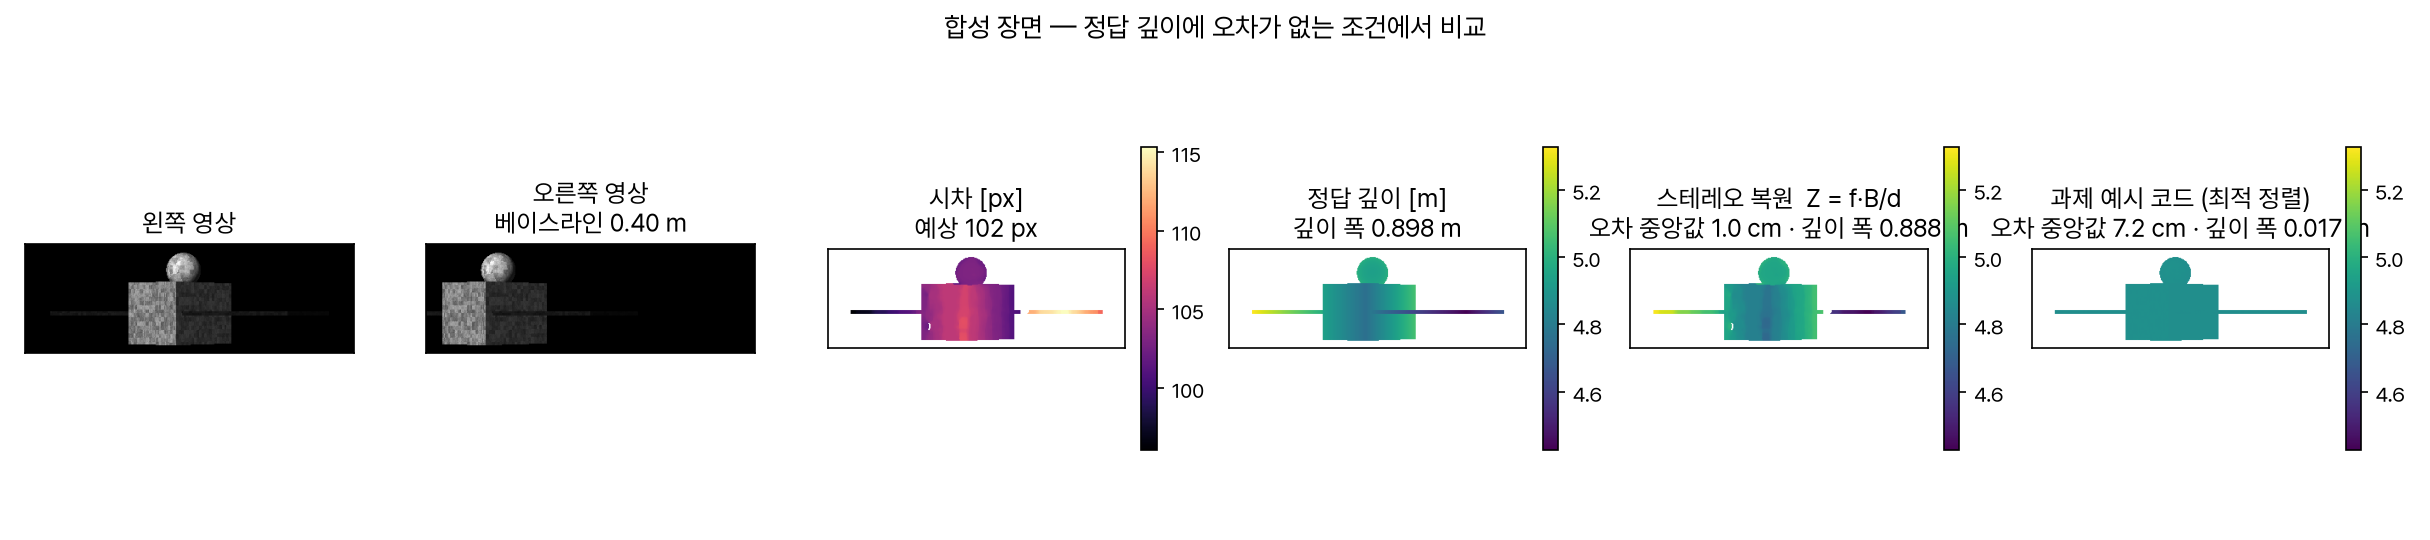
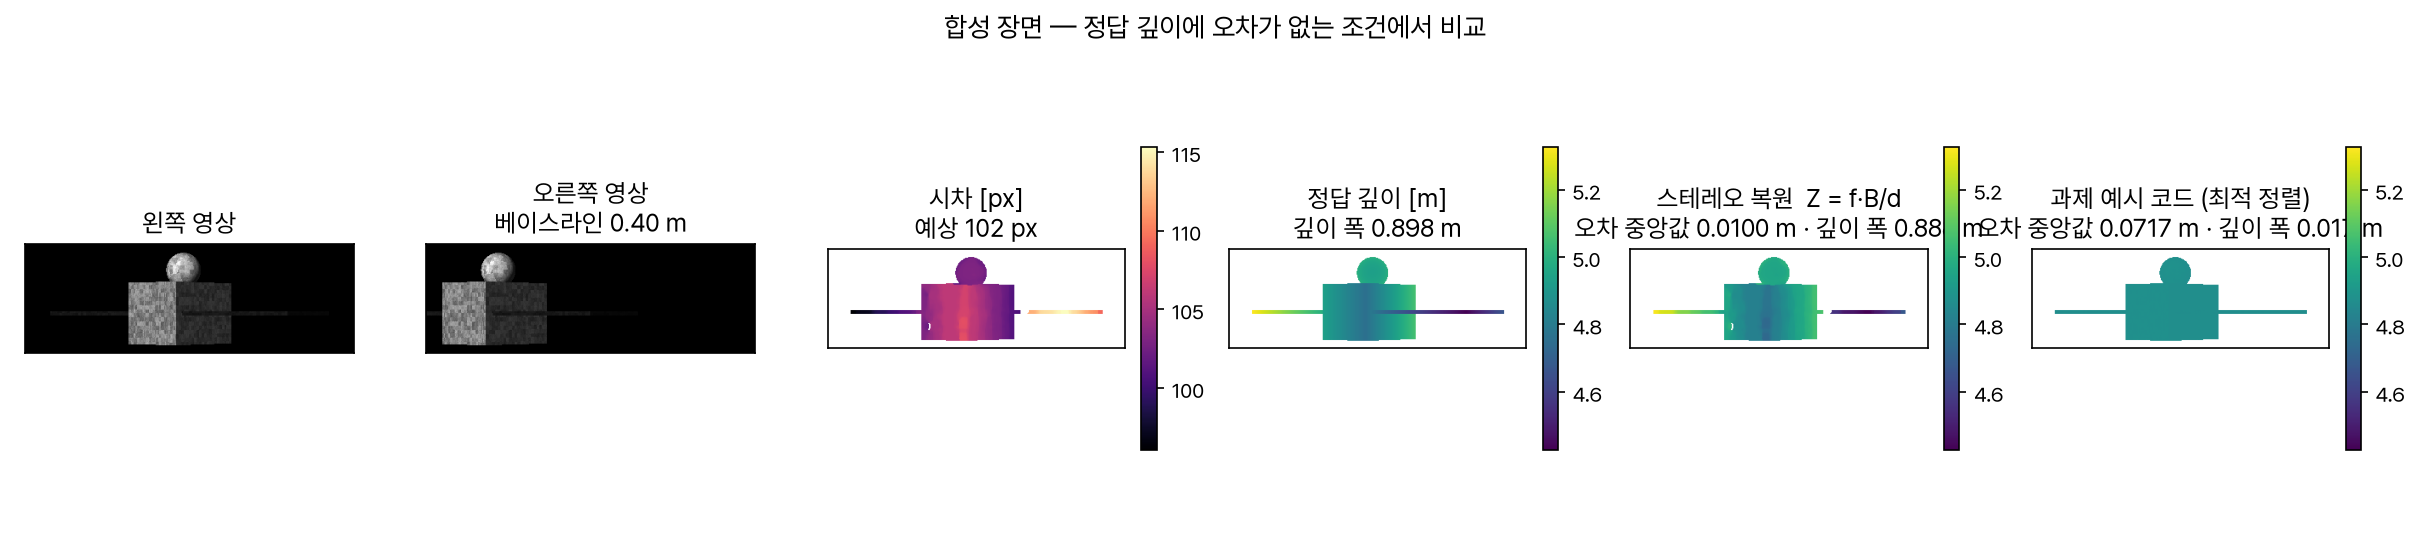
길이 단위를 전부 m 으로 맞추고, 2장 설명을 구체화하고, 대본에 기호 설명 추가
단위
    한 화면에 cm 와 m 이 섞여 있어 값을 비교할 때마다 100을 곱하고 나눠야
    했다. 베이스라인과 거리가 이미 m 이므로 오차 쪽을 m 으로 맞췄다.
      0.74 cm -> 0.0074 m,  6.8 cm/px -> 0.068 m/px,  5 cm 이내 -> 0.05 m 이내
    그림(개념도·쌍별 결과·깊이 맵 비교)의 축과 캡션도 함께 바꿨다. 산점도는
    축 이름만 [m] 로 바꾸면 값이 100배로 남으므로 데이터도 같이 고쳤다.

2장 설명
    "정답을 손으로 풀 수 있는 장면을 만들었다" 까지만 있어서 무엇을 확인했고
    무엇이 나왔는지가 없었다. 다섯 줄로 다시 썼다 - 왜 그렇게 짰는지, 무엇을
    어디까지 대조하는지, 통과 수(파일별 포함), 잡아낸 버그 4건, 되돌려 확인한
    절차. 파일별 통과 수는 test_counts() 로 리포트에서 읽는다.

대본
    맨 앞에 나오는 기호를 모아 뒀다. 식을 말로 옮기려면 f, B, d, Z 가 무엇인지
    입에 붙어 있어야 하는데 슬라이드에는 자리가 없다. 값도 함께 적어 발표 중에
    되짚을 수 있게 했다. 식은 설명 안에 넣지 않고 '쓰는 식' 으로 따로 뺐다 -
    줄바꿈이 식 한가운데를 자르면 읽는 사람이 다시 이어 붙여야 한다.

Claude-Session: https://claude.ai/code/session_018U3AzX4tcWGeaMbFnbomri

Changed region(s): [[0.6481, 0.3852, 0.9877, 0.4444]]

diff --git a/02_2d_to_3d/tools/build_report.py b/02_2d_to_3d/tools/build_report.py
@@ -95,6 +95,23 @@ def code_lines(name="test_relative_pose_maps_view_i_to_view_j"):
     return src[start:end]
 
 
+def test_counts() -> dict:
+    """pytest 실행 결과에서 파일별 통과 수를 센다.
+
+    슬라이드에 "기하 44 · 스테레오 27" 처럼 적으려면 이 값이 필요하다.
+    손으로 적어 두면 테스트를 늘렸을 때 조용히 어긋난다.
+    """
+    import re
+    from collections import Counter
+
+    path = os.path.join(OUT, "pytest_report.txt")
+    if not os.path.exists(path):
+        return {}
+    text = io.open(path, encoding="utf-8", errors="replace").read()
+    hits = re.findall(r"^(\S+?\.py)::\S+ PASSED", text, re.M)
+    return dict(Counter(f.split("/")[-1] for f in hits))
+
+
 def report_lines():
     """pytest 실행 결과에서 슬라이드에 들어갈 만큼만 뽑는다.
 
@@ -259,6 +276,7 @@ def add_image(slide, path, cx, cy, cw, ch, caption=None):
 
 
 TALK = []
+VARS = []
 
 
 def add_notes(slide, text):
@@ -339,6 +357,9 @@ def build(prs, s):
         전문 용어는 처음 나올 때 한 번만 풀어 준다. '정합' 대신 '같은 지점
         찾기', 'blockSize' 대신 '오려서 비교하는 네모의 크기' 로 쓴다.
 
+        길이는 전부 m 으로 적는다. 한 화면에 cm 와 m 이 섞이면 값을
+        비교할 때마다 100을 곱하고 나눠야 한다.
+
         다만 풀어 쓴 말이 다른 말과 겹치면 원래 용어를 쓴다. '시차' 를 '밀린
         거리' 로 바꿔 봤더니 재려는 대상인 깊이(거리)와 헷갈렸다. 지금은
         '시차 d' 를 쓰고 '옆으로 밀린 픽셀 수' 라고 한 번만 덧붙인다.
@@ -369,6 +390,21 @@ def build(prs, s):
     blk_new = next(x for x in blocks
                    if x["best_pair"]["valid_ratio"] == best["valid_ratio"])
     gap_ratio = bex["median_abs"] / best["median_abs"]
+
+    # 식은 설명 안에 넣지 않고 아래 '쓰는 식' 으로 뺀다. 줄바꿈이 식
+    # 한가운데를 자르면 읽는 사람이 다시 이어 붙여야 한다.
+    VARS[:] = [
+        ("R1, t1 / R2, t2", "사진 1·2 의 자세. R 은 회전, t 는 위치."),
+        ("", "데이터셋이 준 값이다."),
+        ("R, t", "두 사진 사이의 상대 자세. 우리가 계산한다."),
+        ("B", f"베이스라인 = t 중 화면과 나란한 성분. "
+              f"{best['baseline_m']:.3f} m."),
+        ("f", f"초점거리. {best['focal_px']:,.0f} 픽셀."),
+        ("d", "시차 = 같은 지점이 두 사진에서 옆으로 밀린 픽셀 수."),
+        ("", f"이 쌍에서 약 {best['expected_disparity_px']:.0f} 픽셀."),
+        ("Z", "깊이 = 그 화소가 보는 표면까지의 거리."),
+        ("u, v / cx, cy", "화소의 가로·세로 위치 / 화면 중심."),
+    ]
 
     # ---------------- 1. 방법 ----------------
     # 스테레오가 무엇인지는 설명하지 않는다. 이 장에서 남겨야 할 것은
@@ -408,11 +444,11 @@ def build(prs, s):
         (("베이스라인 B", f"{best['baseline_m']:.3f} m"), "body"),
         (("시차 d (기대)", f"{best['expected_disparity_px']:.1f} px"), "body"),
         (("d 1픽셀이 바꾸는 깊이",
-          f"{best['depth_resolution_m_per_px']*100:.1f} cm"), "body"),
+          f"{best['depth_resolution_m_per_px']:.3f} m"), "body"),
         # '거리 오차' 라고 부르지 않는다. Z 는 광축 방향 깊이이고, 카메라에서
         # 점까지의 실제 거리는 sqrt(X^2+Y^2+Z^2) 라 화면 가장자리에서 갈린다.
         # 우리가 재는 것은 Z 이므로 Z 라고 부르는 편이 짧고 정확하다.
-        (("→ Z 오차 (중앙값)", f"{best['median_abs']*100:.2f} cm"), "key"),
+        (("→ Z 오차 (중앙값)", f"{best['median_abs']:.4f} m"), "key"),
     ])
 
     add_notes(sl, f"""
@@ -420,8 +456,8 @@ def build(prs, s):
 · 대신 위성이 매 장면 돌아갑니다. 위성을 세워 놓고 보면 카메라가 그 주위를 돈 셈입니다.
 · 그래서 두 사진의 자세 차이에서 상대 자세 R, t 를 구했고, 그중 화면과 나란한 성분이 베이스라인입니다. 회전 {best['rotation_deg']:.1f}도짜리 쌍에서 {best['baseline_m']:.3f} m 가 나왔습니다.
 · 나머지는 교과서대로입니다. 평행하게 편 뒤 같은 지점이 몇 픽셀 밀렸는지 찾고, Z = f·B/d 로 나눕니다.
-· 여기서 시차 1픽셀이 {best['depth_resolution_m_per_px']*100:.1f} cm 입니다. 이보다 미세한 구조는 원리적으로 구분되지 않습니다.
-· 결과는 Z 오차 중앙값 {best['median_abs']*100:.2f} cm, 위성까지 {best['distance_m']:.1f} m 인데 그 0.13퍼센트입니다.
+· 여기서 시차 1픽셀이 {best['depth_resolution_m_per_px']:.3f} m 입니다. 이보다 미세한 구조는 원리적으로 구분되지 않습니다.
+· 결과는 Z 오차 중앙값 {best['median_abs']:.4f} m, 위성까지 {best['distance_m']:.1f} m 인데 그 0.13퍼센트입니다.
 """)
 
     # ---------------- 2. Unit Test ----------------
@@ -450,22 +486,29 @@ def build(prs, s):
     add_text(sl, 8.57, 2.58, 3.78, 2.20,
              [(x, MONO, 8.5, BODY) for x in report_lines()], spacing=1.2)
 
-    add_panel(sl, 0.72, 5.18, 11.89, 1.64, "왜 이렇게 짰나", [
-        t("공과 상자로 위성을 세우면 정답 거리를 식으로 구할 수 있습니다. "
-          "정답에 오차가 없으니, 틀린 만큼이 그대로 알고리즘의 오차입니다."),
-        t("그래서 '그림이 그럴듯한가' 가 아니라 '숫자가 맞는가' 로 확인합니다. "
-          f"정답 깊이 차이 {syn['gt_span_m']:.2f} m 를 저희는 {ss['span_m']:.2f} m 로 "
-          f"되살렸고, 과제 예시 코드는 {se['span_m']:.3f} m 로 납작해졌습니다."),
-        tk("이렇게까지 한 이유는, 이번에 찾은 버그 4건이 전부 테스트가 없던 "
-           "자리에서 나왔기 때문입니다. 고친 뒤에는 일부러 되돌려 그 테스트가 "
-           "진짜 실패하는지까지 확인했습니다."),
+    tcnt = test_counts()
+    geo = tcnt.get("test_3d_processing.py", 0)
+    ste = tcnt.get("test_stereo.py", 0)
+    add_panel(sl, 0.72, 5.18, 11.89, 1.64, "왜 이렇게 짰고, 무엇이 나왔나", [
+        t("크기와 자료형만 보면 식이 틀려도 통과합니다. 그래서 공과 상자로 "
+          "정답을 손으로 풀 수 있는 장면을 따로 만들었습니다."),
+        t("정답에 렌더링 오차가 0 이라, 틀린 만큼이 그대로 알고리즘의 "
+          "오차입니다. Z = f·B/d 와 자세 변환을 소수점 12자리까지 대조합니다."),
+        tk(f"결과 — {geo + ste}개 전부 통과(기하 {geo} · 스테레오 {ste}). 정답 깊이 "
+           f"차이 {syn['gt_span_m']:.2f} m 를 {ss['span_m']:.2f} m 로 되살렸고, "
+           f"과제 예시 코드는 {se['span_m']:.3f} m 로 납작해졌습니다."),
+        tk("이 테스트들이 버그 4건을 잡았습니다 — 세로 쌍 10/20 유실 · 기준 깊이 "
+           "90도 어긋남 · 정렬 창이 14/20 잘림 · 블록 크기 오선택."),
+        t("넷 다 예외가 나지 않아 조용히 틀리는 종류였고, 고친 뒤 일부러 되돌려 "
+          "그 테스트가 진짜 실패하는지까지 확인했습니다."),
     ])
     add_notes(sl, f"""
 · 과제 예시 테스트는 크기와 자료형만 봅니다. 그러면 계산식이 틀려도 통과합니다.
-· 그래서 공과 상자로 정답을 손으로 풀 수 있는 장면을 만들었습니다. 정답에 오차가 없으니 틀린 만큼이 그대로 알고리즘의 오차입니다.
-· 왼쪽이 실제 코드입니다. 1장에서 말한 "돌아간 각도가 두 번째 눈이 된다" 를 소수점 12자리까지 확인합니다.
-· 오른쪽이 실행 결과, {tc}개 전부 통과입니다. outputs 폴더에 그대로 저장돼 있습니다.
-· 이렇게까지 한 이유는, 이번에 찾은 버그 4건이 전부 테스트가 없던 자리에서 나왔기 때문입니다.
+· 그래서 공과 상자로 정답을 손으로 풀 수 있는 장면을 만들었습니다. 광선과 도형의 교차를 식으로 푸니 정답에 렌더링 오차가 0 이고, 틀린 만큼이 그대로 알고리즘의 오차가 됩니다.
+· 왼쪽이 실제 코드입니다. 1장에서 말한 "돌아간 각도가 두 번째 눈이 된다" 를 확인합니다. 위성 위의 점 200개를 두 장면 좌표로 각각 옮겨 놓고, 우리가 구한 R 과 t 로 한쪽을 다른 쪽에 겹쳐 소수점 12자리까지 맞는지 봅니다.
+· 오른쪽이 실행 결과입니다. {tc}개 전부 통과하고 outputs 폴더에 그대로 저장돼 있습니다.
+· 이렇게까지 한 이유는, 이번에 찾은 버그 4건이 전부 테스트가 없던 자리에서 나왔기 때문입니다. 세로로 찍힌 쌍이 통째로 버려지고, 기준 깊이가 90도 어긋나고, 정렬 창이 타겟을 자르고, 블록 크기를 가짜 영상으로 고른 것입니다.
+· 넷 다 예외가 나지 않아 조용히 틀리는 종류였습니다. 그래서 고친 뒤 일부러 되돌려 그 테스트가 진짜 실패하는지까지 확인했습니다.
 """)
 
     # ---------------- 3. 2D -> 3D 변환 결과 ----------------
@@ -479,8 +522,8 @@ def build(prs, s):
     add_card(sl, 0.72, 5.02, 4.30, 1.86)
     add_text(sl, 0.98, 5.21, 3.78, 0.24, [("결과", SANS_SB, 10.5, INK)])
     add_matrix(sl, 0.98, 5.60, [2.34, 1.44], [
-        (("Z 오차 (중앙값)", f"{best['median_abs']*100:.2f} cm"), "key"),
-        (("5 cm 안에 든 비율", f"{best['within_5cm']*100:.1f}%"), "key"),
+        (("Z 오차 (중앙값)", f"{best['median_abs']:.4f} m"), "key"),
+        (("0.05 m 안에 든 비율", f"{best['within_5cm']*100:.1f}%"), "key"),
         (("과제 예시 코드보다", f"{gap_ratio:.1f}배 정확"), "key"),
         (("겉면을 덮은 비율 · 2장", f"{cov_one['surface_coverage']*100:.1f}%"), "body"),
         ((f"겉면을 덮은 비율 · {cov_fuse['pairs_used']}쌍",
@@ -491,7 +534,7 @@ def build(prs, s):
     add_panel(sl, 5.26, 5.02, 7.35, 1.86,
               "깊이는 정확합니다 · 남은 문제는 덮는 범위입니다", [
         tk(f"Z 는 정확합니다 — 100번 중 {best['within_5cm']*100:.0f}번이 "
-           f"5 cm 안에 들어옵니다."),
+           f"0.05 m 안에 들어옵니다."),
         tk("뒷면은 원리적으로 안 보입니다 — 알고리즘이 부족해서가 아니라 "
            "한 방향에서는 가려지기 때문입니다."),
         tk(f"넓히면 정확도를 내줍니다 — {cov_fuse['pairs_used']}쌍을 합쳐 겉면 "
@@ -521,7 +564,7 @@ def build(prs, s):
     p025 = next(r for r in posesens if abs(r["degrees"] - 0.25) < 1e-9)
     items = [
         ("1", "자세가 조금만 틀려도 무너집니다",
-         f"자세에 0.25도 오차를 주면 5 cm 안에 드는 비율이 "
+         f"자세에 0.25도 오차를 주면 0.05 m 안에 드는 비율이 "
          f"{best['within_5cm']*100:.1f}% 에서 {p025['within_5cm']*100:.1f}% 로 "
          f"떨어집니다.",
          "→ 자세를 그대로 받지 말고, 영상의 대응점으로 상대 자세를 다시 맞춰야 "
@@ -541,7 +584,7 @@ def build(prs, s):
          "합니다."),
         ("4", "화면의 대부분이 빈 우주입니다",
          f"위성은 화면의 일부만 차지하는데 전체를 그대로 봅니다. 깊이 분해능이 "
-         f"{best['depth_resolution_m_per_px']*100:.1f} cm/픽셀에서 막힙니다.",
+         f"{best['depth_resolution_m_per_px']:.3f} m/픽셀에서 막힙니다.",
          "→ 위성이 있는 부분만 잘라 같은 계산량으로 더 조밀하게 봐야 합니다."),
     ]
 
@@ -558,7 +601,7 @@ def build(prs, s):
     add_notes(sl, f"""
 · 앞줄이 지금 잰 값이고 뒷줄이 할 일입니다.
 · 1번이 가장 큽니다. 지금은 위성 자세를 데이터셋이 준 정답으로 받아 쓰는데, 실제로는 그 자세도 추정해야 합니다.
-· 자세를 0.25도만 틀어도 무너지는 이유는 베이스라인이 짧아서입니다. 0.25도면 타겟이 2.5 cm 옮겨 앉는데, 베이스라인 {best['baseline_m']*100:.0f} cm 의 7퍼센트라 깊이가 통째로 그만큼 밀립니다.
+· 자세를 0.25도만 틀어도 무너지는 이유는 베이스라인이 짧아서입니다. 0.25도면 타겟이 0.025 m 옮겨 앉는데, 베이스라인 {best['baseline_m']:.3f} m 의 7퍼센트라 깊이가 통째로 그만큼 밀립니다.
 · 2번은 3장에서 {cov_fuse['pairs_used']}쌍을 합쳐도 {fuse0['surface_coverage']*100:.0f}퍼센트에서 멈춘 이유입니다. 조건에 맞는 사진을 전부 쓰다 보니 보는 방향이 한쪽에 몰립니다.
 · 3번은 지금 자신 없는 값을 그냥 버려서 "모른다" 와 "틀렸다" 가 구분되지 않는다는 것입니다.
 · 이 밖에 시차 찾는 범위 좁히기는 재 봤지만, 정확도를 내주는 쪽이라 쓰지 않고 값만 남겼습니다.
@@ -573,6 +616,16 @@ def talk_script(width=46):
               "04 / 개선점"]
     out = ["2차 업무 발표 대본 — 정승원",
            f"슬라이드 {TOTAL_PAGES}장 · 각 장에서 할 말", "=" * 50, ""]
+    if VARS:
+        out += ["[0] 나오는 기호", "-" * 50]
+        pad = max(len(k) for k, _ in VARS)
+        for key, desc in VARS:
+            wrapped = textwrap.wrap(desc, width + 14 - pad - 2)
+            out.append(f"{key:<{pad}}  {wrapped[0]}")
+            out += [" " * (pad + 2) + x for x in wrapped[1:]]
+        out += ["", "쓰는 식", "  R = R2 · R1^T,    t = t2 − R · t1",
+                "  Z = f · B / d",
+                "  X = (u−cx)·Z/f,    Y = (v−cy)·Z/f", ""]
     for i, note in enumerate(TALK):
         out += [f"[{i + 1}] {titles[i]}", "-" * 50]
         for line in note.splitlines():

diff --git a/02_2d_to_3d/figures.py b/02_2d_to_3d/figures.py
@@ -161,7 +161,7 @@ def figure_concept(best, path):
     a.text(0, 2.35, f"f = {best['focal_px']:.0f} px      B = {base:.3f} m",
            ha="center", fontsize=10.5, color="#555555")
     a.text(0, -3.15, f"시차 1픽셀이 깊이 "
-           f"{best['depth_resolution_m_per_px']*100:.1f} cm 에 해당", ha="center",
+           f"{best['depth_resolution_m_per_px']:.3f} m 에 해당", ha="center",
            fontsize=11, color="#7a7a7a")
 
     fig.tight_layout()
@@ -226,12 +226,12 @@ def figure_synthetic(art, res, path):
     fig.colorbar(g, ax=ax[3], fraction=0.046)
     s = ax[4].imshow(art["z_stereo"][cy, cx], cmap="viridis", vmin=lo, vmax=hi)
     ax[4].set_title(f"스테레오 복원  Z = f·B/d\n오차 중앙값 "
-                    f"{res['stereo']['median_abs']*100:.1f} cm · 깊이 폭 "
+                    f"{res['stereo']['median_abs']:.4f} m · 깊이 폭 "
                     f"{res['stereo']['span_m']:.3f} m")
     fig.colorbar(s, ax=ax[4], fraction=0.046)
     e = ax[5].imshow(art["z_bright"][cy, cx], cmap="viridis", vmin=lo, vmax=hi)
     ax[5].set_title(f"과제 예시 코드 (최적 정렬)\n오차 중앙값 "
-                    f"{res['example_code']['full']['median_abs']*100:.1f} cm · 깊이 폭 "
+                    f"{res['example_code']['full']['median_abs']:.4f} m · 깊이 폭 "
                     f"{res['example_code']['full']['span_m']:.3f} m")
     fig.colorbar(e, ax=ax[5], fraction=0.046)
 
@@ -295,21 +295,21 @@ def figure_survey(results, path):
     w5 = np.array([r["within_5cm"] * 100 for r in results])
 
     fig, ax = plt.subplots(1, 3, figsize=(12.6, 3.6))
-    sc = ax[0].scatter(base, med * 100, c=rot, cmap="viridis", s=60)
-    ax[0].set_xlabel("유효 베이스라인 [m]"); ax[0].set_ylabel("깊이 오차 중앙값 [cm]")
+    sc = ax[0].scatter(base, med, c=rot, cmap="viridis", s=60)
+    ax[0].set_xlabel("유효 베이스라인 [m]"); ax[0].set_ylabel("깊이 오차 중앙값 [m]")
     ax[0].set_title("베이스라인과 정확도"); ax[0].set_yscale("log")
     fig.colorbar(sc, ax=ax[0], label="회전각 [도]", fraction=0.046)
 
     ax[1].scatter(cov, w5, s=60, color="#2ca02c")
-    ax[1].set_xlabel("유효 화소 비율 [%]"); ax[1].set_ylabel("5 cm 이내 화소 [%]")
+    ax[1].set_xlabel("유효 화소 비율 [%]"); ax[1].set_ylabel("0.05 m 이내 화소 [%]")
     ax[1].set_title("복원 범위와 정확도")
 
     order = np.argsort(med)
-    ax[2].plot(np.arange(1, len(med) + 1), med[order] * 100, "o-", ms=8,
+    ax[2].plot(np.arange(1, len(med) + 1), med[order], "o-", ms=8,
                color="#9467bd")
-    ax[2].axhline(10, ls="--", c="#333", lw=1.2)
-    ax[2].text(len(med) * 0.55, 11, "10 cm 기준", fontsize=10, color="#333")
-    ax[2].set_xlabel("쌍 순위"); ax[2].set_ylabel("깊이 오차 중앙값 [cm]")
+    ax[2].axhline(0.10, ls="--", c="#333", lw=1.2)
+    ax[2].text(len(med) * 0.55, 0.11, "0.10 m 기준", fontsize=10, color="#333")
+    ax[2].set_xlabel("쌍 순위"); ax[2].set_ylabel("깊이 오차 중앙값 [m]")
     ax[2].set_title(f"정확도 순 정렬 ({len(results)}쌍)"); ax[2].set_yscale("log")
 
     fig.suptitle("SPE3R 뷰 쌍별 복원 결과", fontsize=13)
@@ -346,7 +346,7 @@ def figure_spe3r(best, example_depth, path):
     fig.colorbar(r, ax=ax[3], fraction=0.046)
     s = ax[4].imshow(dep[cy, cx], cmap="viridis", vmin=lo, vmax=hi)
     ax[4].set_title(f"스테레오 복원  Z = f·B/d\n오차 중앙값 "
-                    f"{best['median_abs']*100:.1f} cm · 5cm 이내 "
+                    f"{best['median_abs']:.4f} m · 0.05 m 이내 "
                     f"{best['within_5cm']*100:.0f}%")
     fig.colorbar(s, ax=ax[4], fraction=0.046)
     e = ax[5].imshow(np.where(m, example_depth[cy, cx], np.nan), cmap="viridis",
@@ -362,11 +362,11 @@ def figure_spe3r(best, example_depth, path):
     figure_depth_triptych(
         [("기준 깊이 [m]\n(동봉 메시 z-buffer)",
           np.where(sm, ref[sy, sx], np.nan), "viridis", lo, hi),
-         (f"스테레오  Z = f·B/d\n오차 중앙값 {best['median_abs']*100:.1f} cm · "
-          f"5cm 이내 {best['within_5cm']*100:.0f}%",
+         (f"스테레오  Z = f·B/d\n오차 중앙값 {best['median_abs']:.4f} m · "
+          f"0.05 m 이내 {best['within_5cm']*100:.0f}%",
           dep[sy, sx], "viridis", lo, hi),
          (f"과제 예시 코드 (밝기, 최적 정렬)\n오차 중앙값 "
-          f"{best['_example_median']*100:.1f} cm",
+          f"{best['_example_median']:.4f} m",
           np.where(sm, example_depth[sy, sx], np.nan), "viridis", lo, hi)],
         path.replace(".png", "_slide.png"))
 
